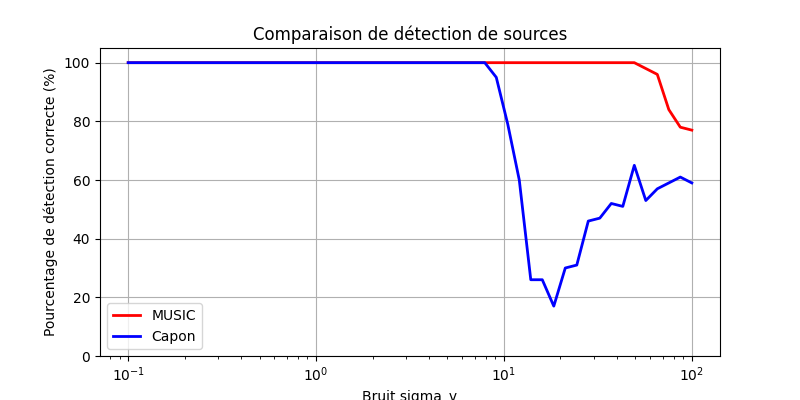
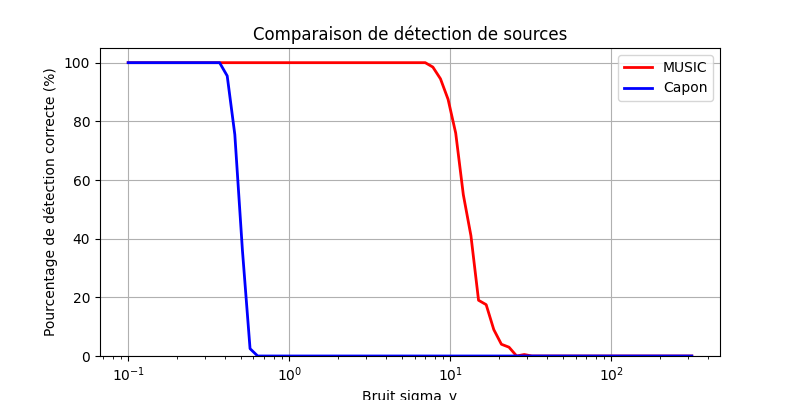
Ajustement du nombre de capteurs pour l'etude de l'impact du bruit

diff --git a/caponvsmusic.py b/caponvsmusic.py
@@ -13,7 +13,7 @@ from tqdm import tqdm
 import matplotlib.pyplot as plt
 
 
-def capon_f(sigma_v=0.1, M=25):
+def capon_f(sigma_v=0.1, M=15):
     
     # --- Paramètres ---
     N = 1000
@@ -86,7 +86,7 @@ def capon_f(sigma_v=0.1, M=25):
     return np.round(angles, 2)
 
 
-def music_f(sigma_v=0.1, M=25):
+def music_f(sigma_v=0.1, M=15):
     
     N = 2000
     d = 0.2
